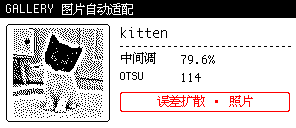
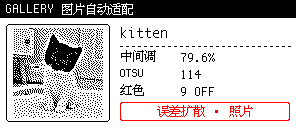
Tell red apart from warmth, and read JPEGs
Three anime images added to the sample flooded red across skin and pink
hair, because the encoder's red test admits anything with red above 170
and green below it. That is loose enough to catch rose, peach and wood.
Nothing caught it earlier because the contrast pass returns grey, so
sharpening had been hiding the problem rather than avoiding it.

Measure how convincingly red the candidates are instead: the median gap
between their red and green channels. Across the sample, images whose
red means something measured 122 to 186 and incidental warmth 9 to 72,
so the cut goes in the gap. This replaces the chromatic fraction rule,
which was not enough: it catches a nearly grey photograph but not
artwork that is genuinely colourful in a colour that is not red.

The gallery now decodes whatever it is handed rather than PNG alone,
which is the point of it, and one asset is left as a JPEG so that stays
tested.

The contrast amount is left to the caller. A dark subject reads best at
2.4 and cel shading at 1.2, and nothing in the profile separates them:
the dark fraction runs the wrong way, 12.8% for the photograph against
20.2% for one of the drawings. The example uses one moderate value for
both rather than inventing a rule from one example of each.

diff --git a/internal/display/image_profile.go b/internal/display/image_profile.go
@@ -19,16 +19,19 @@ type ImageProfile struct {
 	// Threshold is the cut Otsu's method finds in the image's own histogram.
 	// A fixed cut at 128 erases artwork that happens to sit entirely above it.
 	Threshold int
-	// ChromaticFraction is the share of pixels with a noticeable colour cast.
-	// The red plane fires on anything merely warm, so a photograph of a room
-	// full of wood and beige scatters red through a subject that has none;
-	// this is what tells such an image apart from one that is actually red.
-	ChromaticFraction float64
+	// RedSeparation is how convincingly red the pixels are that would reach the
+	// red plane: the median distance between their red and green channels.
+	// The plane's test admits anything merely warm, so skin, pink hair and
+	// wood all qualify and can flood a picture with red that is not in it.
+	// Genuine red sits far from that: across the sample, images whose red
+	// carries meaning measured 122 and above while incidental warmth reached
+	// 72 at most. Zero when nothing would reach the plane at all.
+	RedSeparation int
 	// Photographic reports whether the image reads as continuous tone.
 	Photographic bool
-	// Monochrome reports that the image carries too little colour for the red
-	// plane to mean anything.
-	Monochrome bool
+	// RedIsMeaningful reports whether the red plane carries signal rather than
+	// a warm cast.
+	RedIsMeaningful bool
 }
 
 // photographicMidTone separates the two kinds. Measured across a sample of
@@ -37,13 +40,10 @@ type ImageProfile struct {
 // than tuned. It is one sample of each extreme, not a validated constant.
 const (
 	photographicMidTone = 0.60
-	// monochromeChroma separates images whose colour is incidental from those
-	// where it carries meaning. Across the sample, a nearly grey photograph
-	// reached 3% while every image with real colour in it exceeded 12%.
-	monochromeChroma = 0.05
-	// chromaticSpread is how far apart a pixel's channels must sit before it
-	// counts as coloured rather than as a warm or cool grey.
-	chromaticSpread = 40
+	// meaningfulRedSeparation is where genuine red parts from warmth. Measured
+	// across the sample: real red measured 122 to 186, incidental warmth 9 to
+	// 72, so the cut sits in the gap rather than being tuned to either side.
+	meaningfulRedSeparation = 100
 )
 
 // ProfileImage measures src as the panel will see it: alpha composited over
@@ -58,13 +58,17 @@ func ProfileImage(src image.Image) (ImageProfile, error) {
 	}
 
 	var histogram [256]int
-	total, chromatic := 0, 0
+	// separations counts, for each distance between the red and green
+	// channels, how many pixels that would reach the red plane show it.
+	var separations [256]int
+	total, redCandidates := 0, 0
 	for y := bounds.Min.Y; y < bounds.Max.Y; y++ {
 		for x := bounds.Min.X; x < bounds.Max.X; x++ {
 			r, g, b := channelsOverWhite(src.At(x, y))
 			histogram[int(0.2126*r+0.7152*g+0.0722*b)]++
-			if max(r, max(g, b))-min(r, min(g, b)) > chromaticSpread {
-				chromatic++
+			if r > defaultRedThreshold && g < defaultRedMaxGreen {
+				separations[int(max(0, min(255, r-g)))]++
+				redCandidates++
 			}
 			total++
 		}
@@ -75,13 +79,27 @@ func ProfileImage(src image.Image) (ImageProfile, error) {
 		midTone += histogram[level]
 	}
 	profile := ImageProfile{
-		MidToneFraction:   float64(midTone) / float64(total),
-		Threshold:         otsuThreshold(histogram[:], total),
-		ChromaticFraction: float64(chromatic) / float64(total),
+		MidToneFraction: float64(midTone) / float64(total),
+		Threshold:       otsuThreshold(histogram[:], total),
+		RedSeparation:   medianOf(separations[:], redCandidates),
 	}
 	profile.Photographic = profile.MidToneFraction > photographicMidTone
-	profile.Monochrome = profile.ChromaticFraction < monochromeChroma
+	profile.RedIsMeaningful = profile.RedSeparation >= meaningfulRedSeparation
 	return profile, nil
+}
+
+func medianOf(counts []int, total int) int {
+	if total == 0 {
+		return 0
+	}
+	seen := 0
+	for value, count := range counts {
+		seen += count
+		if seen*2 >= total {
+			return value
+		}
+	}
+	return 0
 }
 
 // SuggestOptions turns a measurement into a starting point. It is a
@@ -91,9 +109,9 @@ func (p ImageProfile) SuggestOptions() ImageOptions {
 	options := ImageOptions{
 		Fit:      FitContain,
 		Sampling: SampleBilinear,
-		// An image with no real colour in it has no business reaching the red
-		// plane, which fires on anything merely warm.
-		DisableRed: p.Monochrome,
+		// Warmth is not red. Leaving the plane on for an image whose reds are
+		// skin or wood floods it with colour the image does not contain.
+		DisableRed: !p.RedIsMeaningful,
 	}
 	if p.Photographic {
 		// Error diffusion holds the tone a photograph is made of.

diff --git a/examples/gallery/main.go b/examples/gallery/main.go
@@ -6,7 +6,8 @@ import (
 	"flag"
 	"fmt"
 	"image"
-	"image/png"
+	_ "image/jpeg"
+	_ "image/png"
 	"os"
 	"path"
 	"sort"
@@ -15,7 +16,7 @@ import (
 	"github.com/xwvike/inkwire/internal/display"
 )
 
-//go:embed assets/*.png
+//go:embed assets/*.png assets/*.jpeg
 var assets embed.FS
 
 // The gallery answers one question: what happens when a caller hands over an
@@ -108,7 +109,9 @@ func loadAssets() ([]asset, error) {
 		if err != nil {
 			return nil, err
 		}
-		decoded, err := png.Decode(bytes.NewReader(data))
+		// image.Decode rather than png.Decode: the point of the gallery is
+		// that a caller hands over whatever they have.
+		decoded, _, err := image.Decode(bytes.NewReader(data))
 		if err != nil {
 			return nil, fmt.Errorf("decode %s: %w", file.Name(), err)
 		}
@@ -117,7 +120,7 @@ func loadAssets() ([]asset, error) {
 			return nil, fmt.Errorf("profile %s: %w", file.Name(), err)
 		}
 		entries = append(entries, asset{
-			name:    strings.TrimSuffix(file.Name(), ".png"),
+			name:    strings.TrimSuffix(strings.TrimSuffix(file.Name(), ".png"), ".jpeg"),
 			image:   decoded,
 			profile: profile,
 		})
@@ -156,9 +159,20 @@ func prepare(entry asset, target image.Rectangle) (image.Image, error) {
 	if !entry.profile.Photographic {
 		return entry.image, nil
 	}
-	const featureSizeOnPanel = 7
+	// A very dark subject wants more than this and cel-shaded artwork wants
+	// less; no measurement in the profile separates those two cases, so one
+	// moderate amount is used for both rather than a rule invented from a
+	// single example of each.
+	const featureSizeOnPanel, contrastAmount = 7, 1.4
 	reduction := max(1, entry.image.Bounds().Dx()/max(1, target.Dx()))
-	return display.EnhanceContrast(entry.image, featureSizeOnPanel*reduction, 2.4)
+	return display.EnhanceContrast(entry.image, featureSizeOnPanel*reduction, contrastAmount)
+}
+
+func redVerdict(profile display.ImageProfile) string {
+	if profile.RedIsMeaningful {
+		return fmt.Sprintf("%d KEEP", profile.RedSeparation)
+	}
+	return fmt.Sprintf("%d OFF", profile.RedSeparation)
 }
 
 // One asset on one panel, with the measurement beside it.
@@ -199,9 +213,10 @@ func renderCard(entry asset, fonts *display.FontRegistry) (*display.Frame, error
 	rows := []struct{ label, value string }{
 		{"中间调", fmt.Sprintf("%.1f%%", 100*entry.profile.MidToneFraction)},
 		{"OTSU", fmt.Sprintf("%d", entry.profile.Threshold)},
+		{"红色", redVerdict(entry.profile)},
 	}
 	for index, row := range rows {
-		top := 52 + index*18
+		top := 50 + index*17
 		if err := text(canvas, fonts, image.Rect(120, top, 176, top+14), 14, display.AlignStart,
 			run(row.label, "ui", 12, display.InkBlack),
 		); err != nil {
@@ -218,7 +233,7 @@ func renderCard(entry asset, fonts *display.FontRegistry) (*display.Frame, error
 	if entry.profile.Photographic {
 		verdict, ink = "误差扩散 · 照片", display.InkRed
 	}
-	badge := image.Rect(120, 92, 290, 112)
+	badge := image.Rect(120, 102, 290, 121)
 	canvas.StrokeRoundRect(badge, 3, display.StrokeStyle{Ink: ink, Width: 1})
 	return frame, text(canvas, fonts, badge.Inset(3), 14, display.AlignCenter,
 		run(verdict, "ui", 12, ink),

diff --git a/internal/display/image.go b/internal/display/image.go
@@ -30,6 +30,14 @@ const (
 	DitherOrdered
 )
 
+// The encoder's own limits, verified against the panel and recorded in
+// PROTOCOL.md section 4.2.
+const (
+	defaultThreshold    = 128
+	defaultRedThreshold = 170
+	defaultRedMaxGreen  = 170
+)
+
 // ImageOptions controls how a source image is reduced to three inks. The three
 // integer limits treat zero as "use the default", so a caller cannot ask for a
 // limit of exactly zero; those values are degenerate anyway, except that
@@ -117,13 +125,13 @@ func normalizeImageOptions(options ImageOptions) (ImageOptions, error) {
 		return options, fmt.Errorf("invalid dither mode %d", options.Dither)
 	}
 	if options.Threshold == 0 {
-		options.Threshold = 128
+		options.Threshold = defaultThreshold
 	}
 	if options.RedThreshold == 0 {
-		options.RedThreshold = 170
+		options.RedThreshold = defaultRedThreshold
 	}
 	if options.RedMaxGreen == 0 {
-		options.RedMaxGreen = 170
+		options.RedMaxGreen = defaultRedMaxGreen
 	}
 	for name, value := range map[string]int{
 		"threshold": options.Threshold, "red threshold": options.RedThreshold, "red max green": options.RedMaxGreen,

diff --git a/examples/gallery/main_test.go b/examples/gallery/main_test.go
@@ -83,8 +83,9 @@ func TestSuggestionsAvoidTheKnownFailures(t *testing.T) {
 			if ink == 0 {
 				t.Fatal("the suggested options rendered nothing at all")
 			}
-			if entry.profile.Monochrome && countInk(frame, display.InkRed) != 0 {
-				t.Error("a monochrome source reached the red plane")
+			if !entry.profile.RedIsMeaningful && countInk(frame, display.InkRed) != 0 {
+				t.Errorf("red reached the panel from a source whose reds are only warm (separation %d)",
+					entry.profile.RedSeparation)
 			}
 		})
 	}

diff --git a/PROTOCOL.md b/PROTOCOL.md
@@ -280,8 +280,10 @@ glyph = hzk12_bytes[offset : offset + 24]  # MSB first，逐行取位
 - `examples/gallery/` 回答「上层随手丢一张图进来怎么办」。`ProfileImage` 测量三个量——中间调占比、Otsu 阈值、彩色像素占比——`SuggestOptions` 据此给出建议；`DrawImage` **不会自己去测**，判错藏在绘制里没法排查。测量与决定分开，是为了让判错可见。
   - **中间调占比** 分「连续调」与「平面图形」。九张实测素材（二维码、带 alpha 的图标、品牌标、线稿、一张照片）里图形最高 44%，照片 80%，中间空 36 个百分点。规则是照片走误差扩散、图形走阈值。
   - **Otsu 阈值** 取代写死的 128。这是必需的：`sparkle.png` 整体亮于 128，固定阈值下**整块变白**，Otsu 切在 194 才把图形救回来。
-  - **彩色像素占比** 决定要不要关红色。红平面判定 `R>170 且 G<170` 会在木质、米色这类暖色上误触发，在本无红色的照片上撒红点。实测近乎单色的照片只有 3%，而任何真有颜色的素材都超过 12%，5% 一刀即可。对应 `ImageOptions.DisableRed`。
-  - **`EnhanceContrast`** 是深色照片的前处理，见 4.10。图形不需要，用了反而更糟。
+  - **红色分离度** 决定要不要关红色。红平面判定 `R>170 且 G<170` 收得太松，皮肤、粉色头发、木质全都命中——三张动画素材在不关红色时**大面积泛红**。判据是：在触发红色的像素里取 R−G 的中位数，实测真红 122–186（tiktok 186、article 135、朋友圈 127、线稿的嘴 122），假红 9–72（粉发 67–72、暖色调 43、暖灰 9），中间空 50 点，切在 100。对应 `ImageOptions.DisableRed`。
+    早先用「彩色像素占比」做判据是**不够的**：它抓得住近乎单色的猫，抓不住动画——那些图确实有颜色，只是那颜色不是红。
+  - **`EnhanceContrast`** 是连续调素材的前处理。深色主体需要强一些（猫在 2.4 下最清楚），赛璐璐动画需要弱一些（2.4 会过锐糊脸，1.2–1.4 合适）。**profile 里没有任何测量能区分这两种情况**——暗部占比在猫（12.8%）和动画广角（20.2%）上是反的，所以没有做成自动规则，example 里统一用 1.4，强度留给调用方。
+    另外注意这个前处理**曾经掩盖过红色泛滥的 bug**：它输出灰度，顺带让红平面失效，所以只有在去掉锐化对照时才暴露出来。
   - 运行 `go run ./examples/gallery` 重新生成 `gallery.png` 联系表和 `out/` 下每张素材的 296×128 面板图；`-payload-for <name>` 可导出单张的真机 payload。素材来源与许可风险见 `examples/gallery/assets/SOURCE`。**尚未上真机确认。**
 - `examples/card_showcase/card_showcase.png` 是把全部能力组合成一张实际界面的样例：头像用 `ClipPath` 裁成圆形（圆角来自裁剪而非事后覆盖），外圈用不足 360° 的圆弧当电量表盘（开放曲线，居中对齐），电量条的填充部分是裁进圆角里的斜纹图案，页脚是点阵图案中挖出白底文字，另有星形多边形、虚线分隔、中英混排多字号文字。整张图经 `DisplayList` 记录后重放。**这是三张图里唯一同时用满黑/白/红三色的**——红色不是画上去的，是源图里嘴部的红橙色命中了 4.2 节的红平面判定。
   **深色主体的照片是这块屏最难的一类素材，需要前处理。** 实测：一张黑猫照片直接 Floyd–Steinberg，72px / 96px / 124px 三种尺寸配 96 / 128 / 168 三档阈值，九种组合全部糊成一团黑，眼睛（暗底上的中灰调）始终不出现——问题不在阈值，主体本身内部对比就不够。先做非锐化掩蔽（局部对比增强，半径 10、强度 2.4）后眼睛、耳廓和胡须才浮出来。线稿则相反，不需要任何前处理，且必须用 `DitherThreshold`：Floyd–Steinberg 会把抗锯齿边缘的误差扩散到本该纯白的大片区域，实测糊成噪点，与 4.4 节记录一致。
